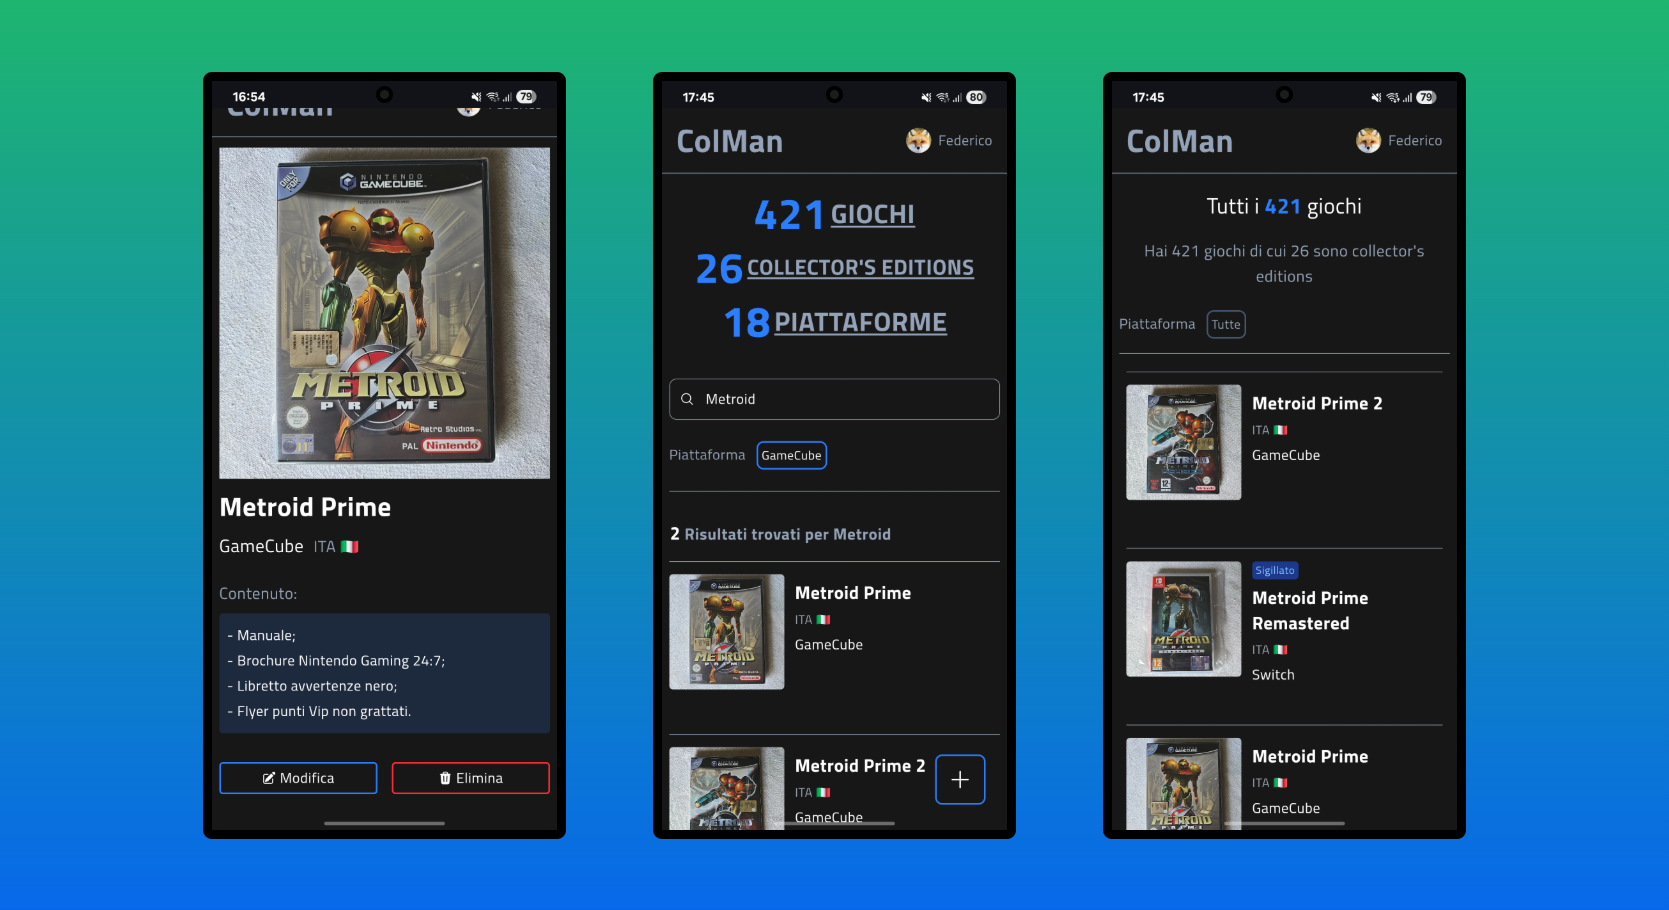
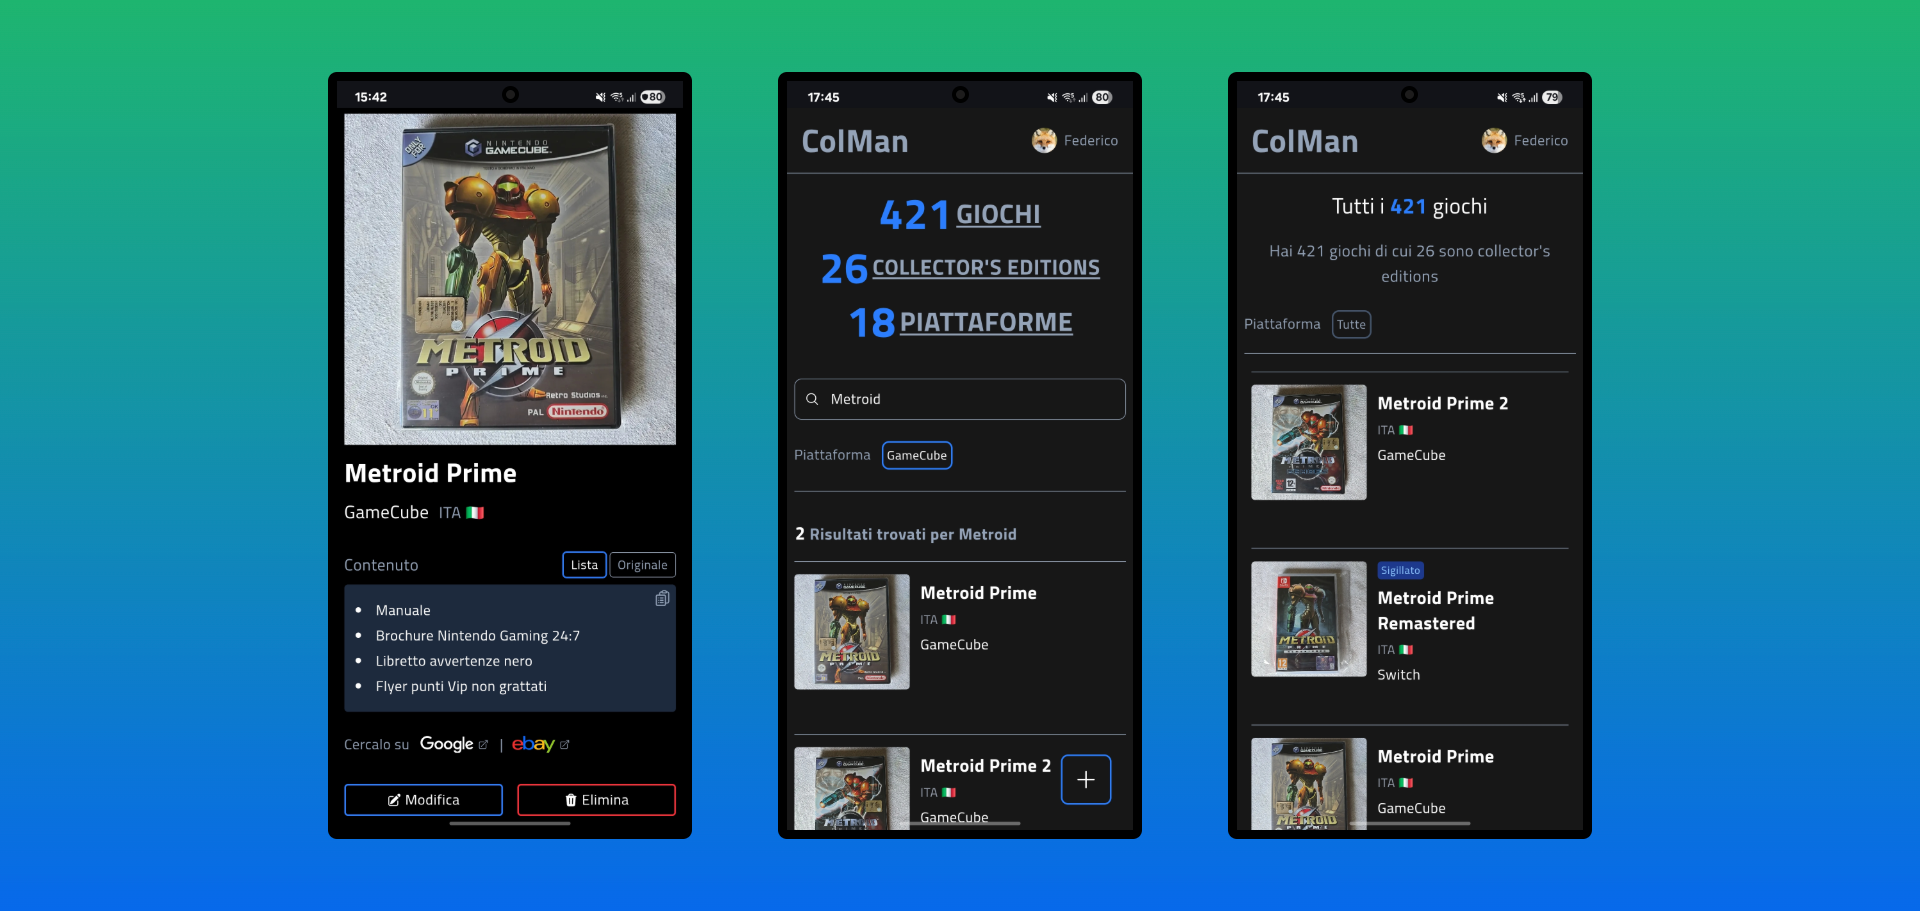
aggiornato file readme e cambiata immagine showcase

Changed region(s): [[0.1246, 0.0615, 0.9035, 0.9231], [0.4362, 0.2154, 0.5608, 0.2462]]

diff --git a/README.md b/README.md
@@ -3,11 +3,13 @@
   <h1>ColMan</h1>
 
 </div>
-<p>Colman sta per "Collection Manager" ed è una Single Page Application full-stack specifica per smartphone e tablet per gestire la mia collezione di videogiochi in modo rapido.<br>
+<p>Colman sta per "Collection Manager" ed è una Single Page Application full-stack specifica per smartphone per gestire la mia collezione di videogiochi in modo rapido.<br>
 
 Con questa applicazione si possono inserire/modificare/eliminare nuovi giochi e piattaforme direttamente nel database di Supabase (PostgreSQL) scattando la foto sul momento o prendendola dalla galleria del telefono e compilando una vera e propria "scheda prodotto" con le informazioni sul gioco o sulla piattaforma.<br>
 
-In questa prima versione ho mantenuto un design semplice con priorità alla funzionalità e con transizioni/animazioni css per dare più fluidità, ma anche spinner di caricamento, skeleton loader e indicatori visivi durante il fetch dei dati e le server actions grazie a Next.Js, Suspense e useTransition di React.<br>
+Vedere le sezioni Funzionalità generali e Pagina gioco per una panoramica piú completa.<br>
+
+In questa prima versione ho mantenuto un design semplice con priorità alla funzionalità e con transizioni/animazioni css per dare più fluidità, ma anche spinner di caricamento, skeleton loader e overlay durante il fetch dei dati e le server actions grazie a Next.Js, Suspense e useTransition di React.<br>
 
 Le notifiche toast di avvenuta aggiunta/modifica/eliminazione sono gestite con la fantastica libreria React Hot Toast.<br>
 
@@ -17,20 +19,33 @@ Le notifiche toast di avvenuta aggiunta/modifica/eliminazione sono gestite con l
 
 Questo progetto è interamente fatto a mano da zero e non sono stati usati tools IA.
 
-## Funzionalità
+## Funzionalità generali
 
-- Homepage con ricerca in tempo reale e filtro piattaforma che renderizza le card di preview dei giochi;
-- Hero section con recap del numero totale di giochi, collector's editions e piattaforme
-- Spinner, indicatori e skeleton loader durante i caricamenti, fetch dei dati e server actions di Next;
+- Ricerca con filtro piattaforma e render in tempo reale delle card di preview dei giochi;
+- Hero section con recap del numero totale di giochi, collector's editions e piattaforme totali;
+- Spinner, overlay e skeleton loader durante i caricamenti, fetch dei dati e server actions di Next;
 - Notifiche toast di avvenuta aggiunta, modifica o eliminazione giochi e piattaforme;
 - Lista delle card di tutti i giochi con paginazione variabile e filtro piattaforma;
 - Lista delle card di tutte le collector's editions con paginazione variabile e filtro piattaforma;
 - Lista di tutte le piattaforme;
-- Creazione giochi e piattaforme con i relativi dati (immagine, nome, regione, contenuti ecc.);
+- Pagina di creazione giochi e piattaforme con i relativi dati (immagine, nome, regione, contenuti ecc.);
 - Modifica dei dati dei giochi e dell'immagine;
 - Modifica dei dati delle piattaforme;
+- Eliminazione di giochi e piattaforme con modal di conferma custom;
 - Checkbox per giochi sigillati, edizioni speciali e collector's editions;
-- Eliminazione di giochi e piattaforme con modal di conferma custom.
+- Inserimento automatico di un testo di defualt se viene selezionata la checkbox per gioco sigillato;
+- Visualizzazione dinamica in tempo reale della lunghezza del testo inserito negli input e della lunghezza massima consentita dal relativo input.
+
+### Pagina gioco
+
+- Generazione automatica della lista dei contenuti del gioco basata sul testo scritto dall'utente;
+- Buttons per visualizzazione lista contenuti del gioco o testo originale contenuti del gioco;
+- Button animato di copia della lista preformattata dei contenuti del gioco;
+- Link dinamici basati su titolo gioco e piattaforma per cercare informazioni sul gioco su Google o eBay in una nuova scheda;
+- Badge di stile diverso per giochi sigillati, edizioni speciali e collector's editions;
+- Button modifica e button elimina con modal custom di conferma eliminazione;
+- Render di un overlay animato "Eliminazione..." durante la server action di eliminazione del gioco;
+- Render dinamico delle emoji delle bandiere corrispondenti alla relativa regione del gioco.
 
 ## Tecnologie usate
 
